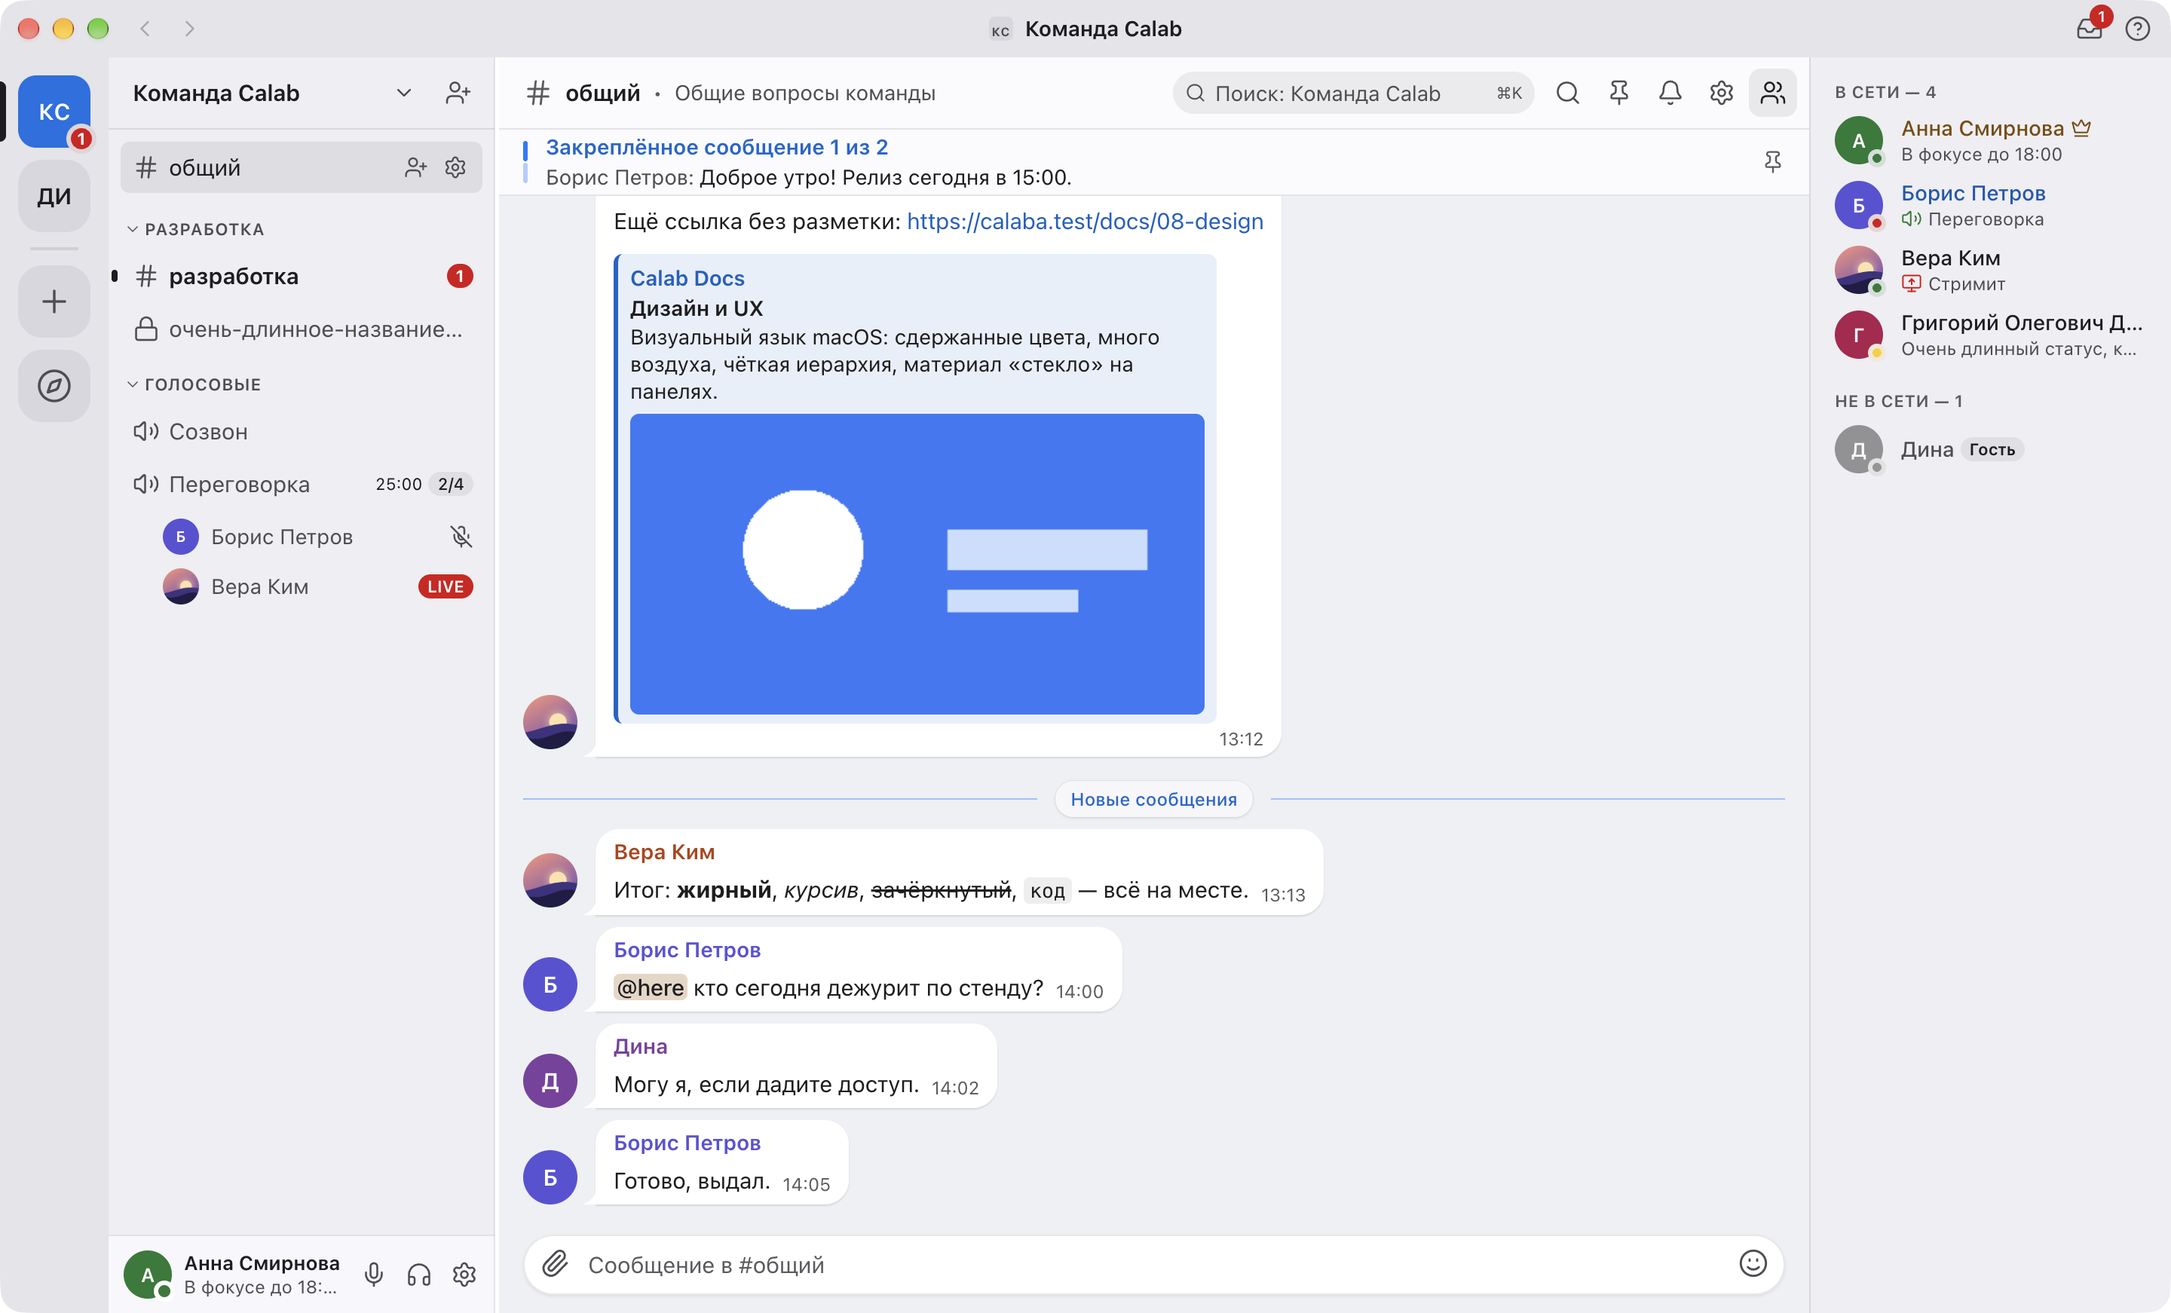
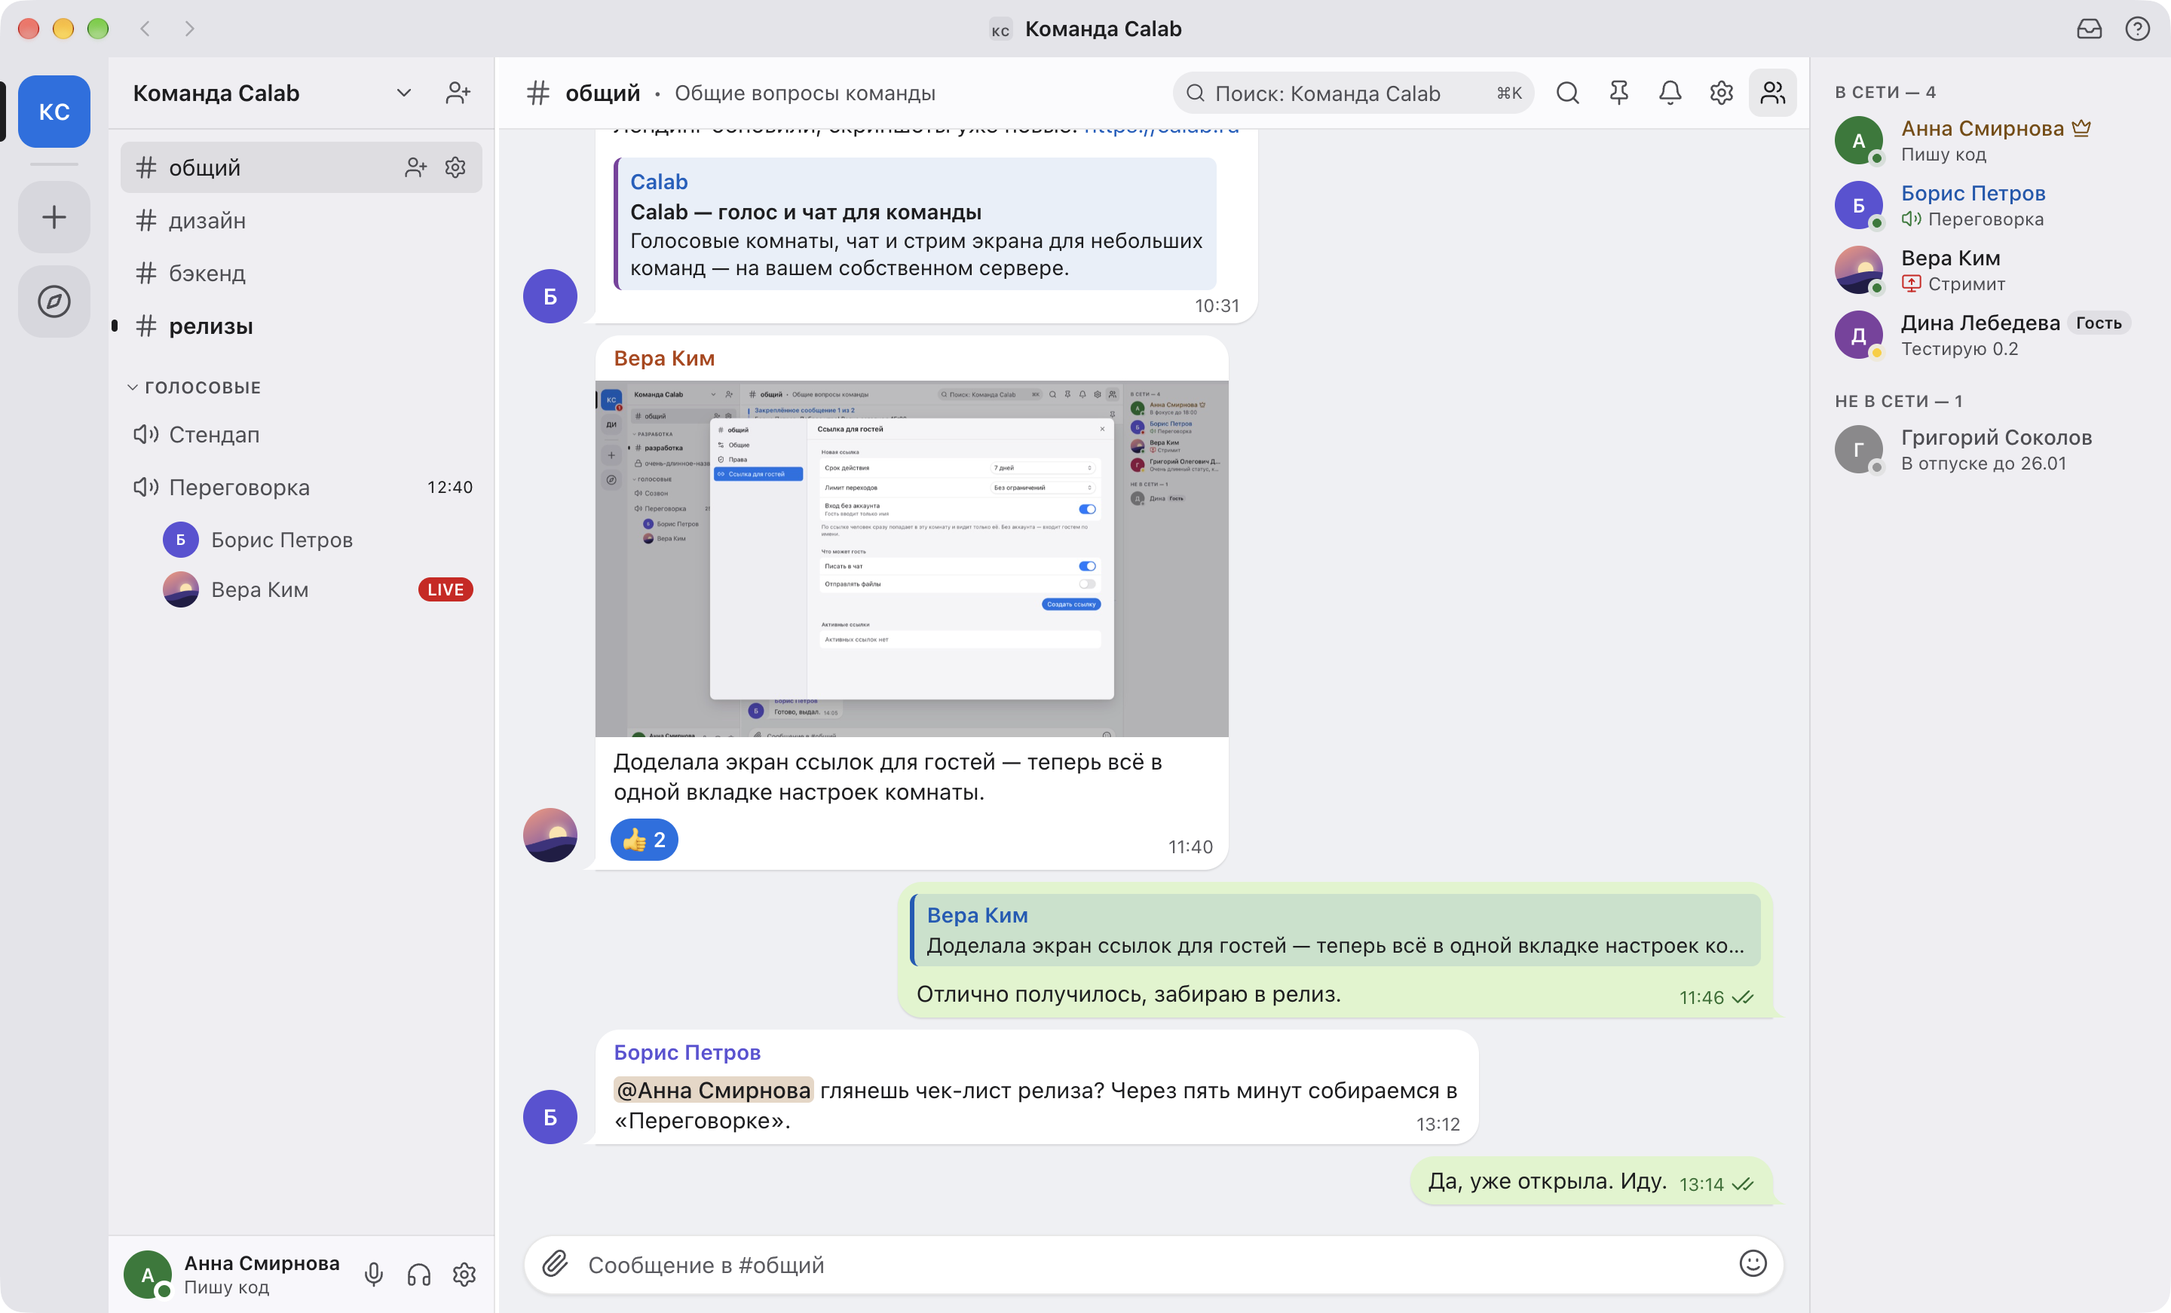
docs: v0.2 — voice panel/room rows parity with Discord (reference screenshot), webcam next

diff --git a/docs/09-ui-backlog.md b/docs/09-ui-backlog.md
@@ -65,16 +65,21 @@
 
 ## v0.2 — полировка (UX-ревью 3, после v0.1)
 
-- **Онбординг**: на коротких шагах («Уведомления», «Готово», «Микрофон» после проверки) карточка фиксированной высоты пустует на 200–260 px над кнопками. Отцентрировать блок контента по вертикали внутри карточки или добавить иллюстрацию; координаты точек, заголовка и кнопок сохранить.
 - **Меню участника**: отделить локальные действия («Громкость», «Заглушить для меня») от модераторских разделителем; дать «Заглушить для меня» иконку `VolumeX`.
 - **Смена пароля**: поле «Текущий пароль» — первым; подзаголовок «…выйдут из аккаунта, кроме этого».
-- **Кольцо фокуса после меню**: после закрытия контекстного меню, открытого мышью, не возвращать видимое кольцо на триггер (только при открытии с клавиатуры).
+- **Кольцо фокуса после меню**: после закрытия контекстного меню, открытого мышью, не возвращать видимое кольцо на триггер (только при открытии с клавиатуры). То же для строки статуса голосовой комнаты после Enter/Esc (UX-ревью 4): кольцо только при навигации с клавиатуры.
 - **Просмотр стрима**: слайдер громкости стрима по наведению; аватар-заглушка в плитках полосы превью до первого кадра.
 - **Пикер стрима**: подсказка на недоступном «Оригинал» (проверить, есть ли уже).
 - **Хоткеи в окне**: биндер сочетаний (#18) — расширить на остальные действия.
 - **Проверка анимаций** (затухание пилюли даты, hover у PiP, тосты) — через trace/видео Playwright.
 - **Переименование данных**: перенести элемент Keychain и папку userData на «Calab» с однократным копированием (сейчас намеренно «Calaba», docs/10).
 - **Универсальные ссылки (AASA / App Links) — v0.2**: `apple-app-site-association` и `assetlinks.json` на app-хосте, чтобы https-ссылка `/join/…`, `/r/…` открывала установленное приложение без промежуточной карточки (п. 53).
+- **Радиусы-одиночки → токены** (UX-ревью 4): icon-кнопки `rounded-[5px]` в `MessageActions.tsx`, `rounded-[4px]` в `Sidebar.tsx` → `--radius-icon`; пункты меню `rounded-[5px]` (`MessageMenu`, `MentionPopover`, `SelfPanel`, `MemberContextMenu`) и `kbd` в `TitleBar` → `--radius-row`; `code`/`pre` в Markdown — токенами.
+- **Превью ссылок**: `theme_color` из unfurl, когда появится в контракте (сейчас цвет из хоста); заголовок-ссылка заметнее (акцентный цвет или цвет при наведении, не только подчёркивание).
+- **Веб-карточка ссылки**: визуальный снимок превью `/r/<код>` (комната + пространство).
+- **Пилюля даты «Сегодня»** перекрывает текст превью у верхнего края ленты: затухание над контентом или отступ.
+- **Две лупы рядом при ≥ 1200 px** (поле поиска по пространству и ⌘F «в комнате»): у поиска в комнате — своя иконка или подсказка «Поиск в #комнате».
+- **Лента и Tab**: сейчас каждое сообщение — Tab-остановка (панель действий с клавиатуры); перейти на roving-фокус стрелками ↑/↓.
 
 
 
@@ -90,6 +95,13 @@
 53. **Ссылки-приглашения — только https; веб-страница ссылки «Открыть в Calab»**: копируются и показываются только `https://<сервер>/join/<код>` и `https://<сервер>/r/<код>` (настроенный сервер; на вебе — `location.origin`), `calab://` в буфер и сообщения не попадает никогда — это внутренний механизм (`services/links.ts`: без известного сервера ссылки нет, не deep link). Разбор по-прежнему принимает `calab://`, `calaba://` и https. На вебе `/join/<код>` и `/r/<код>` сначала показывают карточку (фон и стекло как у экрана входа): превью (комната/пространство, иконка-инициалы; превью инвайта пространства сервер отдаёт только с сессией — без неё карточка без имени; «кто пригласил» в контракте нет), основная кнопка «Открыть в Calab» (пробует `calab://…`: скрытый iframe в Firefox, `location.href` в остальных; 1,8 с без blur/visibilitychange/pagehide → «Приложение не найдено», `role=status`, основной становится «Продолжить в браузере», «Скачать приложение» — кнопкой; поздний blur до 10 с ещё засчитывается — подтверждение «Открыть Calab?» в браузере), вторичная «Продолжить в браузере» (прежний веб-поток: вход/регистрация с кодом, гостевой экран, диалог вступления), ссылка «Скачать приложение» → `/download/`. Галочка «Всегда открывать в приложении» (localStorage, try/catch) — при заходе приложение пробуется сразу, рядом видна ссылка «Открыть в браузере». Залогиненным на вебе карточка тоже показывается. Логика решения — чистый модуль `lib/appLaunch.ts` (юнит-тесты с fake timers). Десктоп без изменений. Снимки `web-join-card`, `web-join-card-not-found` (dark/light, 960/1440) в `e2e-visual/web.spec.ts`.
 54. **Кнопки-«таблетки»** (владелец, 26.09; docs/08 «Радиусы»): один токен `--radius-control: 9999px` — кнопки (primary/secondary/ghost/destructive), поля, селекты, сегментированные контролы (контур и активный сегмент), поиск, числовые поля, текстовые кнопки, чипы/бейджи (включая `N/M` у комнаты), тосты. Исключения — свои токены: `--radius-icon: 8px` (квадратные icon-only кнопки 28–32 px в тулбарах, панели «Голос подключён», пикерах), `--radius-row: 6px` (строки списков и навигации, заметки ⚠, превью ссылок/цитаты, клавиши `kbd`, миниатюры); карточки 8, панели 12.
 55. **Онбординг выверен по вертикали** (владелец, 26.09): в карточке одной высоты (488 px на окнах от 600 px, т. е. и на 960×600) три зоны — шапка (иконка, заголовок, подзаголовок) закреплена сверху, футер («Назад», «Позже», основная) прижат к низу, тело шага центрируется между ними (симметричные отступы 20). Тело есть у каждого шага, пустой карточки нет: «Микрофон» до разрешения — неактивные выбор устройства и полоса уровня с подписью; «Уведомления» — пример уведомления об упоминании; «Всё готово» — сводка «название — значение» (Микрофон: устройство / не проверен · Режим: Активация голосом / Push-to-talk · клавиша · Показ экрана (macOS): разрешён / позже · Уведомления: включены / позже). Точки прогресса, заголовки и кнопки — на одних координатах на всех шагах. Инвариант в визуальном тесте: центр тела ≈ центр области между шапкой и футером (±4 px), футер/заголовок/карточка/точки совпадают на всех шагах при высоте окна ≥ 600, композиция по центру окна (±2 px). Проверено вручную на 960×600, 1280×800, 1440×900 в обеих темах.
+
+
+### v0.2 — Голосовая панель и строки комнат до уровня Discord (владелец, 26.09)
+- Панель «Голос подключён»: ряд из 4 крупных кнопок 56×40 в одном стиле — **Камера** (первая), Стрим, Шумодав, Ещё; иконки 20 px одного набора; hover-подложка; активное состояние — заливка акцентом; справа сверху — индикатор сигнала (анимированные полоски как в Discord) и красная трубка.
+- Панель «я»: у микрофона и наушников — ▾ всегда виден (как в Discord), меню выбора устройства + громкость; статус «В голосе» второй строкой с иконкой.
+- Строка комнаты: при hover — «пригласить» и «настройки» справа (иконки 16 px), таймер/`00/02` в pill с двумя сегментами как в Discord (`00 | 02`), статус комнаты и «Пригласить в голос» под именем — уже есть, выровнять по сетке Discord (отступ 40 px).
+- Сверка пиксель к пикселю со скриншотом Discord (макет в `docs/images/reference/discord-voice-panel.png`).
 
 ## v0.2 — Веб-камера (задача владельца, 26.09)
 
